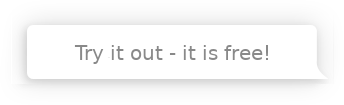
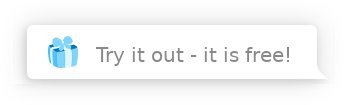
styling for form

Changed region(s): [[0.1163, 0.3429, 0.843, 0.6571]]

diff --git a/web/landing/src/app/home/contact-us/contact-us.component.html b/web/landing/src/app/home/contact-us/contact-us.component.html
@@ -10,10 +10,8 @@
           <div class="form-group">
             <label for="exampleInputName1">Name</label>
             <i class="fa fa-user"></i>
-            <input required="" name="name" [formControl]="contactForm.controls['name']" type="text" class="form-control"
+            <input name="name" [formControl]="contactForm.controls['name']" type="text" class="form-control"
               id="exampleInputName1" placeholder="User name">
-            <div *ngIf="contactForm.controls.name.touched && contactForm.controls.name.errors?.required"
-              class="text text-danger">Name is required</div>
           </div>
           <div class="form-group">
             <label for="exampleInputEmail12">Email</label>
@@ -22,6 +20,9 @@
               id="exampleInputEmail12" placeholder="Email">
             <div *ngIf="contactForm.controls.email.touched && contactForm.controls.email.errors?.email"
               class="text text-danger">Invalid Email</div>
+            <div *ngIf="contactForm.controls.email.touched && contactForm.controls.email.errors?.required"
+              class="text text-danger">
+              Email required</div>
           </div>
           <div class="form-group">
             <label>Your message</label>

diff --git a/web/landing/src/assets/scss/base/_style.scss b/web/landing/src/assets/scss/base/_style.scss
@@ -223,6 +223,7 @@ button:focus {
 
 .btn-theme {
   background-color: $primary_color;
+  cursor: pointer;
   background: $bg_gradiant;
   color: $white !important;
   font-size: 14px;
@@ -237,6 +238,11 @@ button:focus {
   &:hover {
     background: $primary_color;
     background-color: $primary_color;
+  }
+
+  &:disabled {
+    background: lightgray;
+    cursor: auto;
   }
 }
 
@@ -572,8 +578,8 @@ a:hover .download-button {
 
 .bubble-registration {
   position: absolute;
-  top: 21%;
-  left: -35px;
+  top: 41%;
+  left: -25px;
 
   img {
     animation: movebounce 2.1s linear infinite;
@@ -611,7 +617,7 @@ a:hover .download-button {
 .bubble-free {
   position: absolute;
   top: 56%;
-  right: 5px;
+  right: 25px;
 
   img {
     animation: moveleftbounce 2.1s linear infinite;
@@ -2969,7 +2975,6 @@ li.nav-item.dropdown {
   }
 
   .home-right {
-    width: 400px;
     position: relative;
 
     .mobile-slid img {

diff --git a/web/landing/src/app/home/contact-us/contact-us.component.ts b/web/landing/src/app/home/contact-us/contact-us.component.ts
@@ -9,14 +9,14 @@ import { FormGroup, FormBuilder, Validators } from '@angular/forms';
 export class ContactUsComponent implements OnInit {
 
   contactForm: FormGroup;
-  
+
   constructor(private fb: FormBuilder) { }
 
   // Form Validator
   ngOnInit() {
-  	this.contactForm = this.fb.group({
-      name: ['', Validators.required],
-      email: ['', Validators.email],
+    this.contactForm = this.fb.group({
+      name: [''],
+      email: ['', [Validators.email, Validators.required]],
       message: ['', Validators.required]
     })
   }
